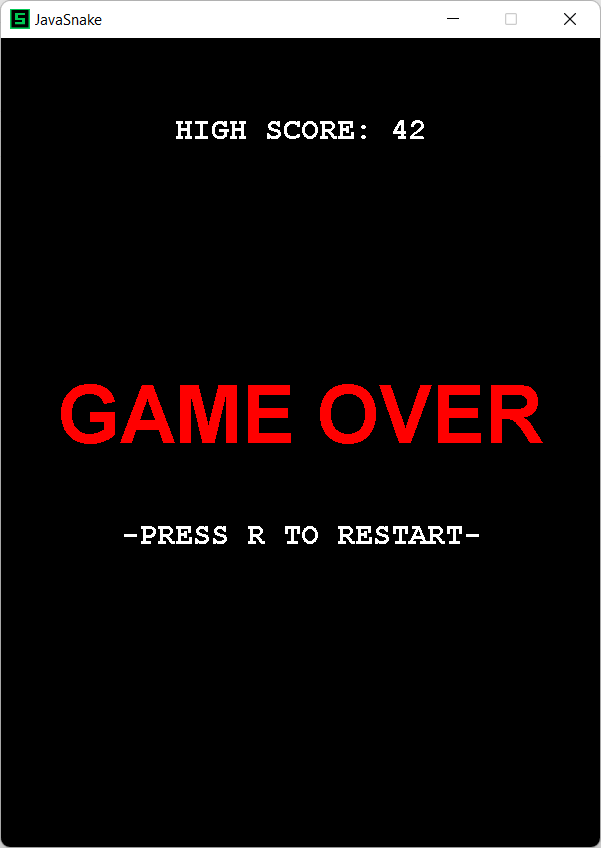
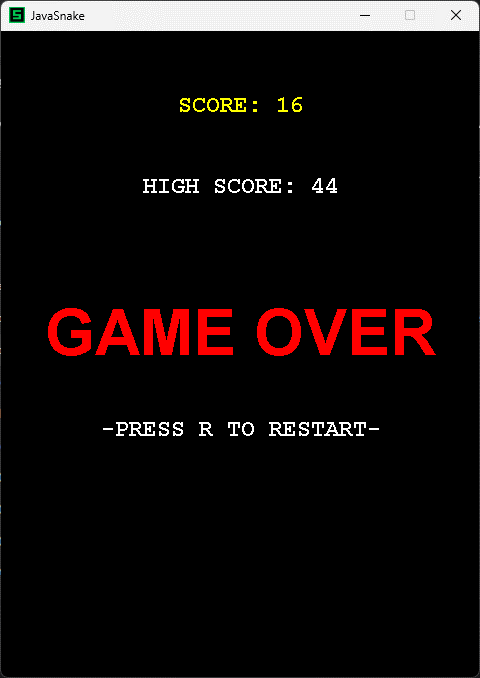
Added score to Game Over display

diff --git a/src/Board.java b/src/Board.java
@@ -40,7 +40,7 @@ public class Board extends JPanel implements ActionListener {
     initBoard();
   }
 
-  /** Resets fields of the board for a new game. */
+  /** Resets fields of the Board for a new game. */
   private void initBoard() {
     snake = new Snake(PIXEL_WIDTH, PIXEL_HEIGHT);
     direction = Orientation.UP;
@@ -152,16 +152,6 @@ public class Board extends JPanel implements ActionListener {
     }
   }
 
-  /** Paints game over screen. */
-  private void paintGameOver(Graphics g) {
-    final Font captionFont = new Font("Courier New", Font.BOLD, 24);
-    final String highScoreOutput = "HIGH SCORE: " + highScore;
-
-    g.setColor(Color.red);
-    paintTitles(g, "GAME OVER", "-PRESS R TO RESTART-");
-    g.drawString(highScoreOutput, (BOARD_WIDTH - getFontMetrics(captionFont).stringWidth(highScoreOutput)) / 2, COMPONENT_HEIGHT / 8);
-  }
-
   /** Paints pause screen. */
   private void paintPause(Graphics g) {
     final Graphics2D g2D = (Graphics2D) g;
@@ -182,6 +172,19 @@ public class Board extends JPanel implements ActionListener {
 
     g.setColor(Color.yellow);
     paintTitles(g, "PAUSED", "-PRESS P TO CONTINUE-");
+  }
+
+  /** Paints Game Over screen. */
+  private void paintGameOver(Graphics g) {
+    final Font captionFont = new Font("Courier New", Font.BOLD, 24);
+    final String scoreOutput = "SCORE: " + snake.growth();
+    final String highScoreOutput = "HIGH SCORE: " + highScore;
+
+    g.setColor(Color.red);
+    paintTitles(g, "GAME OVER", "-PRESS R TO RESTART-");
+    g.drawString(highScoreOutput, (BOARD_WIDTH - getFontMetrics(captionFont).stringWidth(highScoreOutput)) / 2, COMPONENT_HEIGHT / 4);
+    g.setColor(Color.yellow);
+    g.drawString(scoreOutput, (BOARD_WIDTH - getFontMetrics(captionFont).stringWidth(scoreOutput)) / 2,  COMPONENT_HEIGHT / 8);
   }
 
   /** Prints title and caption elements of displays. */
@@ -275,45 +278,40 @@ public class Board extends JPanel implements ActionListener {
     @Override
     public void keyPressed(KeyEvent e) {
       switch (e.getKeyCode()) {
-        case (KeyEvent.VK_DOWN):
-        case (KeyEvent.VK_S):
+        case (KeyEvent.VK_DOWN), (KeyEvent.VK_S) -> {
           if (direction != Orientation.UP) {
             nextDirection = Orientation.DOWN;
           }
-          break;
-        case (KeyEvent.VK_UP):
-        case (KeyEvent.VK_W):
+        }
+        case (KeyEvent.VK_UP), (KeyEvent.VK_W) -> {
           if (direction != Orientation.DOWN) {
             nextDirection = Orientation.UP;
           }
-          break;
-        case (KeyEvent.VK_LEFT):
-        case (KeyEvent.VK_A):
+        }
+        case (KeyEvent.VK_LEFT), (KeyEvent.VK_A) -> {
           if (direction != Orientation.RIGHT) {
             nextDirection = Orientation.LEFT;
           }
-          break;
-        case (KeyEvent.VK_RIGHT):
-        case (KeyEvent.VK_D):
+        }
+        case (KeyEvent.VK_RIGHT), (KeyEvent.VK_D) -> {
           if (direction != Orientation.LEFT) {
             nextDirection = Orientation.RIGHT;
           }
-          break;
-        case (KeyEvent.VK_P):
+        }
+        case (KeyEvent.VK_P) -> {
           if (paused) {
             timer.start();
             paused = false;
           } else {
             paused = true;
           }
-          break;
-        case (KeyEvent.VK_R):
+        }
+        case (KeyEvent.VK_R) -> {
           if (gameOver) {
             initBoard();
           }
-          break;
-        case (KeyEvent.VK_ESCAPE):
-          System.exit(0);
+        }
+        case (KeyEvent.VK_ESCAPE) -> System.exit(0);
       }
     }
   }

diff --git a/README.md b/README.md
@@ -1,5 +1,5 @@
 # JavaSnake
-A simple game of Snake, implemented in Java using the javax.swing library
+A simple game of Snake, implemented in Java using the Java Swing library
 
 ## GAMEPLAY
 (WASD or Arrow Keys to move)
